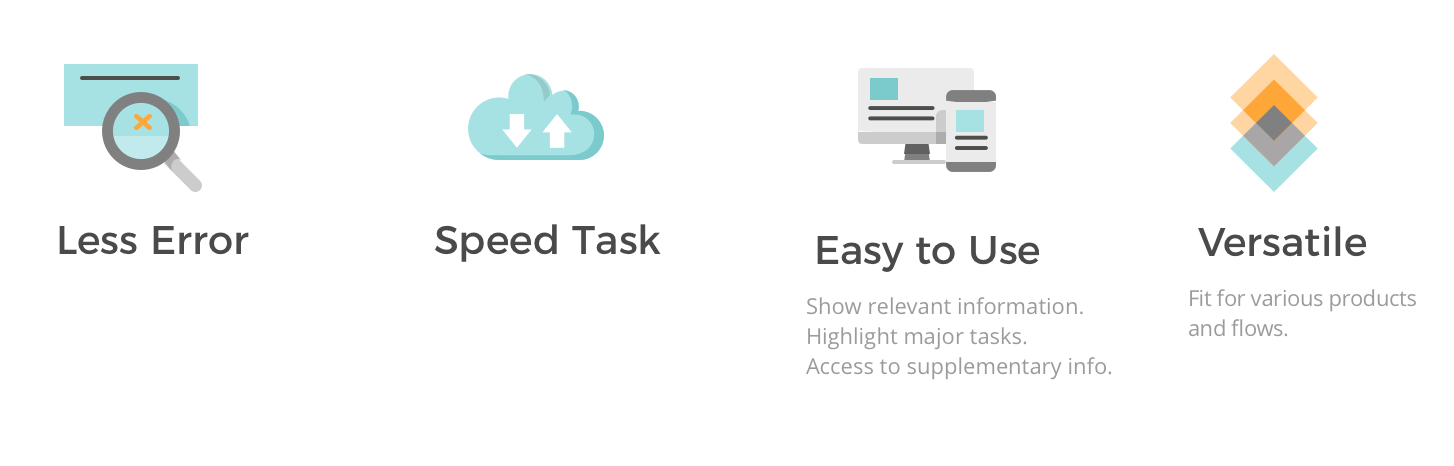
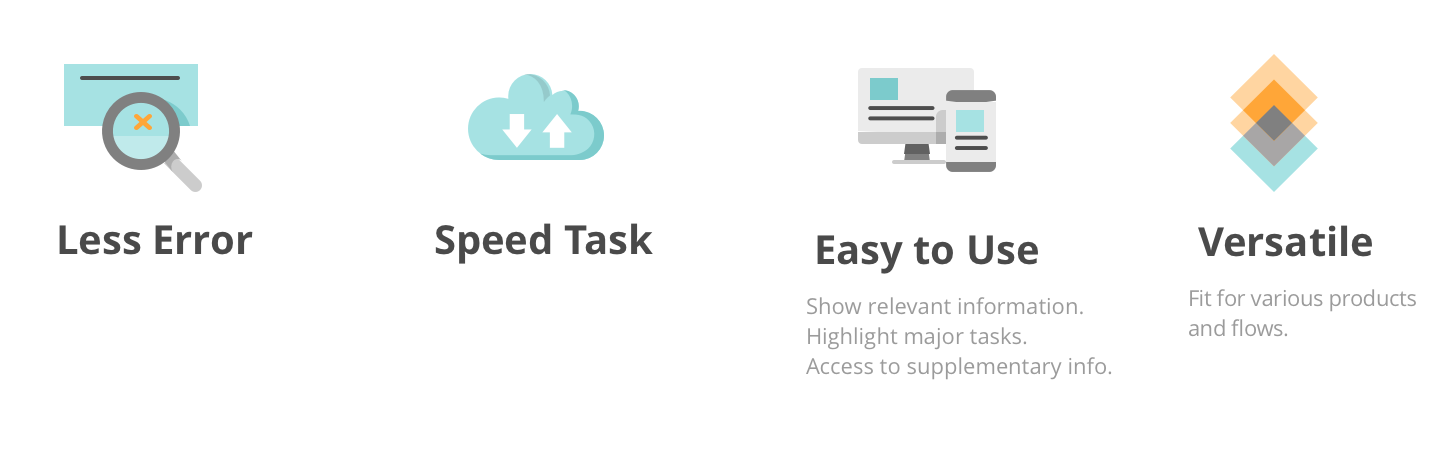
upload

diff --git a/chattie.html b/chattie.html
@@ -116,7 +116,7 @@
     <div class="blog-subheader-container w-container">
       <div class="blog-desc">Chattie is a voice-based companion for practicing conversations in new languages. Having real-world conversation is commonly recognized as very helpful and useful way in language learning. We designed voice interface on a smart speaker to be used
         in practicing conversation in a new language. It is like an always-available person to talk to, and it allows users to utilize small pieces of time to learn. <a href="https://www.uxmatters.com/mt/archives/2018/10/a-practical-guide-to-designing-conversational-voice-interfaces.php"
-          target="_blank">Check the article we published on UXmatters.</a><br>
+          target="_blank">Check the article we published on UXmatters.</a><br><br>
           <a href="pre/Chattie.pdf"
             target="_blank">Presentation</a><br></div>
     </div>
@@ -157,14 +157,10 @@
         <div class="caption">Click to see the document</div>
       </a></div>
     <div class="blog-content-normal mt-5">
-    </br>Based on above research, we found the focus of <strong>competitive analysis</strong> on: </div>
-    <div class="blog-content-sub">
-      <div class="blog-item mb-2"><strong class="seq">&bull;</strong> <a class="blog-content-highlight">Language learning tools</a>, equiped with oral practicing feature</div>
-      <div class="blog-item mb-2"><strong class="seq">&bull;</strong> <a class="blog-content-highlight">Learning strategies</a> that our interviewee mentioned that they use practice conversations</div>
-    </div>
-    <img class="mt-2 mb-4" src="img/chattie_competitive.png"></img>
+    </br>Based on above research, we found the focus of <strong>competitive analysis</strong> on two things. The first is <strong>Language learning tools</strong>, equiped with oral practicing feature. The second is <strong>Learning strategies</strong> that our interviewee mentioned that they use practice conversations </div>
+    <img class="mt-4 mb-2" src="img/chattie_competitive.png"></img>
 
-    <div class="blog-content-normal mt-5"><a class="blog-subtitle">Expressive phrases are learnt in using context</a>
+    <div class="blog-content-normal mt-5">We learnt that expressive phrases are learnt in using context:
     </div>
     <div class="blog-content-normal blog-content-quote chattie-color">“I remember them after I actually used them”
     </div>
@@ -173,16 +169,16 @@
     <div class="blog-content-normal">To help user improve speaking, it is important to not only let them practice, but also provide resources for them to enrich their expressions in scenarios.</div>
 
     <!-- <h2 class="mt-5">Why Smart Speaker?</h2> -->
-    <img class="" src="img/chattie_smartspeaker.png"></img>
+    <img class="mt-4" src="img/chattie_smartspeaker.png"></img>
 
     <div class="blog-content-normal mt-5"><a class="blog-subtitle chattie"><strong>Design Goals</strong></a></div>
-    <div class="blog-content-normal mb-0"><a class="seq chattie">1. </a>Practice conversations that are useful in real-life scenarios. </div>
-    <div class="blog-content-normal mb-0"><a class="seq chattie">2. </a>Expand vocabulary and phrases in oral language. </div>
+    <div class="blog-content-normal mb-0"><a class="seq">1. </a>Practice conversations that are useful in real-life scenarios. </div>
+    <div class="blog-content-normal mb-0"><a class="seq">2. </a>Expand vocabulary and phrases in oral language. </div>
     <div class="blog-content-normal mt-5"><a class="blog-subtitle chattie"><strong>Design Constraints</strong></a></div>
-    <div class="blog-content-normal"><a class="seq chattie">1. </a>People expect smart speakers are more intelligent than they are. </div>
-    <div class="blog-content-normal mb-0"><a class="seq chattie">2. </a>Recollection is a pain in language learning. </div>
+    <div class="blog-content-normal"><a class="seq">1. </a>People expect smart speakers are more intelligent than they are. </div>
+    <div class="blog-content-normal mb-0"><a class="seq">2. </a>Recollection is a pain in language learning. </div>
     <!-- </div> -->
-    <div class="blog-content-normal ml-2">With the research results, we created a user persona, which is easy to remember and able to guide us through the design process.</div>
+    <div class="blog-content-normal ml-2 mt-5">With the research results, we created a user persona, which is easy to remember and able to guide us through the design process.</div>
     <img class="my-2" src="img/chattie_persona.png"></img>
   </div>
 
@@ -195,11 +191,11 @@
     <!-- <h1 class="blog-section-subheader">Poster</h1> -->
     <h1 class="blog-section-subheader">Design</h1>
     <h2>A Peek at Chattie</h2>
-    <div class="blog-content-normal mt-5"><a class="blog-subtitle"><strong>Features</strong></a></div>
+    <div class="blog-content-normal mt-5"><a class="blog-subtitle chattie"><strong>Features align with design goals and contraints</strong></a></div>
     <img class="mt-5" src="img/chattie/features.png"></img>
-    <div class="blog-content-normal mt-5"><a class="blog-subtitle"><strong>Flow Maps</strong></a></div>
+    <div class="blog-content-normal mt-5"><a class="blog-subtitle chattie"><strong>Flow Maps</strong></a></div>
     <img class="mt-1" src="img/chattie_flow.png"></img>
-    <div class="blog-content-normal mt-5"><a class="blog-subtitle"><strong>Dialog Script</strong></a></div>
+    <div class="blog-content-normal mt-5"><a class="blog-subtitle chattie"><strong>Dialog Script</strong></a></div>
     <img class="mt-1" src="img/chattie/script.png"></img>
 
     <!--
@@ -223,43 +219,43 @@
       <img class="my-2" src="img/chattie_speed.png"></img>
     </div> -->
 
-    <h2 class="mt-5">How to practice conversation?</h2>
-    <div class="blog-content-normal mb-0"><a class="seq chattie">&#8226;</a><a class="blog-subtitle">Scenario-based topics</a></div>
+    <h2 class="mt-5"><br>How to practice conversation?</h2>
+    <div class="blog-content-normal mb-0 mt-4"><a class="seq chattie">&#8226;</a><a class="blog-subtitle">Scenario-based topics</a></div>
     <div class="blog-content-normal blog-content-quote chattie-color mt-1 ml-3">“I am most motivated to learn phrases that are often used in real life, the useful language”
     </div>
-    <div class="blog-content-normal mb-0"><a class="seq chattie">&#8226;</a><a class="blog-subtitle">Ask proper questions to solicit practicing</a></div>
+    <div class="blog-content-normal mb-0 mt-4"><a class="seq chattie">&#8226;</a><a class="blog-subtitle">Ask proper questions to solicit practicing</a></div>
     <div class="blog-content-normal mt-1">To come up with captivating conversation, we had many rounds of speed tests with people. We iterate our design to encourage users speak more, continue the conversation in a natural flow.</div>
     <img class="my-2 px-4" src="img/chattie_speed.png"></img>
 
 
-    <h2 class="mt-5">How to introduce the features in a conversation flow?</h2>
+    <h2 class="mt-5"><br>How to introduce the features in a conversation flow?</h2>
     <div class="blog-content-normal mb-1"><strong>Problem: </strong>Unlike GUI, voice App doesn’t have navigation bar or breadcrumb to show where the user is at. It is easy to get lost.
     </div>
-    <div class="blog-content-normal mb-0"><a class="seq chattie">&#8226;</a><a class="blog-subtitle">Reveal features on the go</a></div>
-    <div class="blog-content-normal mb-0"><a class="seq chattie">&#8226;</a><a class="blog-subtitle">Prompt navigation options, no more than three</a></div>
+    <div class="blog-content-normal mb-0 mt-4"><a class="seq chattie">&#8226;</a><a class="blog-subtitle">Reveal features on the go</a></div>
+    <div class="blog-content-normal mb-0 mt-4"><a class="seq chattie">&#8226;</a><a class="blog-subtitle">Prompt navigation options, no more than three</a></div>
     <img class="my-2 px-4" src="img/chattie/three_options.png"></img>
-    <div class="blog-content-normal mb-0"><a class="seq chattie">&#8226;</a><a class="blog-subtitle">Ask "What do you think of the App structure?" in user test</a></div>
+    <div class="blog-content-normal mb-0 mt-4"><a class="seq chattie">&#8226;</a><a class="blog-subtitle">Ask "What do you think of the App structure?" in user test</a></div>
 
 
-    <h2 class="mt-5">How to build Chattie’s personality?</h2>
+    <h2 class="mt-5"><br>How to build Chattie’s personality?</h2>
     <div class="blog-content-normal mb-1"><strong>Problem: </strong>It is reported that people usually talk to Alexa as if commanding a real assistant. However, a trusting encouraging friend is much more effective for learning purpose.
     </div>
-    <div class="blog-content-normal mb-0"><a class="seq chattie">&#8226;</a><a class="blog-subtitle">Interactivity: Ad-libs</a></div>
+    <div class="blog-content-normal mb-0 mt-4"><a class="seq chattie">&#8226;</a><a class="blog-subtitle">Interactivity: Ad-libs</a></div>
     <div class="blog-content-normal mt-1">After getting user feedback of “robot feeling”, we did more exploration, found ad-lib is a good way to signal “Got you”, and create a welcoming conversation. </div>
     <img class="my-2 px-4" src="img/chattie/ad-lib.png"></img>
-    <div class="blog-content-normal mb-0"><a class="seq chattie">&#8226;</a><a class="blog-subtitle">Learning feedback based on user response</a></div>
+    <div class="blog-content-normal mb-0 mt-4"><a class="seq chattie">&#8226;</a><a class="blog-subtitle">Learning feedback based on user response</a></div>
     <img class="my-2 px-4" src="img/chattie/feedback.png"></img>
-    <div class="blog-content-normal mb-0"><a class="seq chattie">&#8226;</a><a class="blog-subtitle">Being helpful when user stumbles</a></div>
+    <div class="blog-content-normal mb-0 mt-4"><a class="seq chattie">&#8226;</a><a class="blog-subtitle">Being helpful when user stumbles</a></div>
     <div class="blog-content-normal mt-1">In user test with language learners, we found user stumbles often. They either don’t understand Chattie’s prompt, or do not have a clue of what to answer.</div>
     <div class="blog-content-normal mt-1">We design Chattie to allow a <strong>reasonable pause</strong> before the user replies, then <strong>offer explanation</strong> of the last sentence. If it still fails, Chattie would suggest to do something else, such as listening to a sample answer.</div>
 
 
-    <h2 class="mt-5">How to handle unexpected user response?</h2>
+    <h2 class="mt-5"><br>How to handle unexpected user response?</h2>
     <div class="blog-content-normal mb-1">It is not possible to exhaust all kinds of edge cases. We designed some fallbacks for exceptions with information learnt from books and tests. And we are looking forward to more data to improve.
     </div>
-    <div class="blog-content-normal mb-0"><a class="seq chattie">&#8226;</a><a class="blog-subtitle">Provide alternative information</a></div>
+    <div class="blog-content-normal mb-0 mt-4"><a class="seq chattie">&#8226;</a><a class="blog-subtitle">Provide alternative information</a></div>
     <img class="my-2 px-4" src="img/chattie/alternative.png"></img>
-    <div class="blog-content-normal mb-0"><a class="seq chattie">&#8226;</a><a class="blog-subtitle">Guess ambiguous pronunciation, and explain</a></div>
+    <div class="blog-content-normal mb-0 mt-4"><a class="seq chattie">&#8226;</a><a class="blog-subtitle">Guess ambiguous pronunciation, and explain</a></div>
     <img class="my-2 px-4" src="img/chattie/explain.png"></img>
 
   </div>

diff --git a/return.html b/return.html
@@ -132,7 +132,7 @@
 
   <div id="process" class="blog-content-container w-container">
     <h1>Design Process</h1>
-    <img class="my-5" src="img/return_process.png"></img>
+    <img class="my-5" src="img/return/design_process.png"></img>
   </div>
 
   <div id="workflow" class="blog-content-container w-container">
@@ -143,23 +143,23 @@
 
   <div id="pains" class="blog-content-container w-container pr-1">
     <h2 class="mb-5">User activities in the system & physical space</h1>
-    <div class="blog-content w-clearfix">
+    <!-- <div class="blog-content w-clearfix"> -->
       <div class="blog-content-normal"><a class="blog-subtitle">1. Reference number can be in different systems. </a>
         <img class="mt-5" src="img/return_pains_system.png"></img>
       </div>
-    </div>
+    <!-- </div> -->
 
-    <div class="blog-content w-clearfix">
-      <div class="blog-content-normal"><a class="blog-subtitle">2. Inspection process is experience-dependent.</a>
+    <!-- <div class="blog-content w-clearfix"> -->
+      <div class="blog-content-normal mt-5"><a class="blog-subtitle">2. Inspection process is experience-dependent.</a>
         <img class="mt-4" src="img/return_pains_experience.png"></img>
       </div>
-    </div>
+    <!-- </div> -->
 
-    <div class="blog-content w-clearfix">
-      <div class="blog-content-normal"><a class="blog-subtitle">3. Put-away strategy is separated from return operations.</a>
+    <!-- <div class="blog-content w-clearfix"> -->
+      <div class="blog-content-normal mt-5"><a class="blog-subtitle">3. Put-away strategy is separated from return operations.</a>
         <img class="mt-4" src="img/return_pains_putaway.png"></img>
       </div>
-    </div>
+    <!-- </div> -->
   </div>
 
 
@@ -171,19 +171,31 @@
       <img class="mt-1" src="img/return/process.png"></img>
       <div class="blog-content-normal mt-2 mb-2"><a class="blog-subtitle"><strong>New Process</strong></a></div>
       <img class="mt-1" src="img/return/new_process.png"></img>
-  </div>
 
-  <img class="return-screen mt-1" src="img/return/return_screen_1.png"></img>
-  <img class="mt-5 return-screen" src="img/return/return_screen_2.png"></img>
-  <img class="mt-5 return-screen" src="img/return/return_screen_3.png"></img>
+  <div class="blog-content-normal"><a class="blog-subtitle"><strong>1. One unified reference number input.</strong></a>
+  </div>
+  </div>
+  <img class="return-screen" src="img/return/return_screen_1.png"></img>
+
+  <div class="blog-content-container w-container pr-1 mb-0">
+  <div class="blog-content-normal"><a class="blog-subtitle"><strong>2. Once found a return order, the system shows all products in the order.</strong></a>
+  </div>
+  </div>
+  <img class="return-screen" src="img/return/return_screen_2.png"></img>
+
+  <div class="blog-content-container w-container pr-1 mb-0">
+  <div class="blog-content-normal"><a class="blog-subtitle"><strong>3. Product inpection with alternative interaction via scanner input.</strong></a>
+  </div>
+  </div>
+  <img class="return-screen" src="img/return/return_screen_3.png"></img>
 
   <div id="reflection" class="blog-content-container w-container">
     <h1 class="blog-section-subheader">Reflection</h1>
     <h2>Look back the challenges</h2>
-    <div class="blog-content-normal mb-0"><a class="seq">1.</a><a class="blog-subtitle">Handle edge cases</a></div>
+    <div class="blog-content-normal mb-0"><a class="blog-subtitle">1. Handle edge cases</a></div>
     <div class="blog-content-normal mb-1">One biggest challenge faced in this project is to handle a large variety of use cases in different warehouses. It is often straightforward to design for one case. When it comes to multiple workflows, designers have to consider integration and prioritization - focus on the main workflow, get ready advanced features but only reveal when needed.  Meanwhile, edge case is also costive for development effort. It is challenging but fun to think of cheap solutions with the least sacrifice on usability.
     </div>
-    <div class="blog-content-normal mb-0"><a class="seq">2.</a><a class="blog-subtitle">Apply guideline</a></div>
+    <div class="blog-content-normal mb-0"><a class="blog-subtitle">2. Apply guideline</a></div>
     <div class="blog-content-normal mb-1">Company guideline is usually well designed to be versatile for most workflow.s This project, as one interface of enterprise software, is special because it is strict requirement of operation speed and context-based interactions. It involves user’s interaction with the physical space, such as inspection and placing product. When there is not a clear choice of floor plan, we focused on the screen navigation flow, and proposed component design changes to ensure operation efficiency.
     </div>
   </div>

diff --git a/eatjoy.html b/eatjoy.html
@@ -44,7 +44,16 @@
         <a class="nav-link" href="#persona"><span class="dot-text">Persona</span></a>
       </li>
       <li class="nav-item">
-        <a class="nav-link" href="#design"><span class="dot-text">Design Process</span></a>
+        <a class="nav-link" href="#goals"><span class="dot-text">Design Goals</span></a>
+      </li>
+      <li class="nav-item">
+        <a class="nav-link" href="#journey"><span class="dot-text">User Journey</span></a>
+      </li>
+      <li class="nav-item">
+        <a class="nav-link" href="#iterations"><span class="dot-text">Iterations</span></a>
+      </li>
+      <li class="nav-item">
+        <a class="nav-link" href="#design"><span class="dot-text">Design</span></a>
       </li>
       <li class="nav-item">
         <a class="nav-link" href="#system"><span class="dot-text">Design system</span></a>
@@ -90,7 +99,7 @@
       </br>
       </br>
       <div class="blog-desc">EatJoy is a mobile application to address the problem of emotional eating. The App is designed with theoretical support by Behavior Changing Techniques and health research findings. The final high-fidelity prototype is pixel-perfect in material
-        design style.<br>
+        design style.<br><br>
         <a href="pre/Eatjoy.pdf"
           target="_blank">Presentation</a><br></div>
     </div>
@@ -121,12 +130,10 @@
     <img class="my-5" src="img/eatjoy_insights.png"></img>
   </div>
 
-  <div id="design" class="blog-content-container w-container">
-    <!-- <h1 class="blog-section-subheader">Poster</h1> -->
-    <h1 class="blog-section-subheader">Design</h1>
-    <h2>How might we help university students use food to defeat negative feeling in a healthy way?</h2>
+  <div id="goals" class="blog-content-container w-container">
+    <h2><div class="blog-content-normal mt-5"><a class="blog-subtitle eatjoy"><strong>How might we _______</strong></a></div>help university students use food to defeat negative feeling in a healthy way?<br><br></h2>
     <!-- <div class="blog-content w-clearfix"> -->
-    <div class="blog-content-normal"><a class="blog-subtitle eatjoy"><strong>Design Goals</strong></a></div>
+    <div class="blog-content-normal mt-5"><a class="blog-subtitle eatjoy"><strong>Design Goals</strong></a></div>
     <div class="row mt-5">
       <div class="col mx-0">
         <img class="blog-center icon-img" src="img/eatjoy/icon_happy.png"></img>
@@ -145,9 +152,9 @@
     <div class="blog-content-normal"><a class="seq eatjoy">1. </a>Intervention needs to be personalized for different <strong>food preferences</strong>. </div>
     <div class="blog-content-normal mb-0"><a class="seq eatjoy">2. </a><strong>Physical availability</strong> of good food has to be considered. </div>
     <div class="blog-content-normal mb-0"><a class="seq eatjoy">3. </a>Food craving is <strong>impulsive and urgent</strong>, allows a short period of time for intervention. </div>
-    <!-- </div> -->
-
-    <h1 class="blog-section-subheader mt-5"></br>User Journey</h1>
+    </div>
+    <div id="journey" class="blog-content-container w-container">
+    <h1 class="blog-section-subheader"></br>User Journey</h1>
     <h2>Design a experience led by how the user feels</h2>
     <img class="my-5" src="img/eatjoy/process.png"></img>
 
@@ -171,6 +178,8 @@
         </div>
       </div>
     </div>
+  </div>
+  <div id="iterations" class="blog-content-container w-container">
 
     <h1 class="blog-section-subheader mt-5"></br>Iteration</h1>
     <h2>Visual Presentation of The Recommendations</h2>
@@ -195,6 +204,8 @@
         </div>
       </div>
     </div>
+  </div>
+  <div id="design" class="blog-content-container w-container">
 
     <h2 class="mt-5 pt-5">A mascot guides through <a class="eatjoy">onboarding</a></h2>
     <div class="blog-content-normal">Drawn from user's <strong>social needs</strong>, we design a mascot to assist onboarding and be a companion through the whole experience.</div>

diff --git a/index.html b/index.html
@@ -75,19 +75,6 @@
 	<div class="container-fluid p-0">
 		<section id="ux">
 			<div class="project-block">
-				<a href="duudo.html">
-					<div id="scene_duudo" class="scene" data-hover-only="true" data-relative-input="true">
-						<div data-depth="0.00"><img src="img/cover/duudo_mask.png"></div>
-						<div data-depth="0.10" class="circle_img"><img src="img/cover/duudo_circles.png"></div>
-						<div data-depth="0.30"><img src="img/cover/duudo_graph.png"></div>
-						<div data-depth="0.00"><img src="img/cover/duudo_text.png"></div>
-					</div>
-					<div class="project-title">Duudo: AR App for Social and Doodle</div>
-					<div class="project-subtitle">A Social AR App for Doodlers to Draw on Real-world Objects</div>
-				</a>
-			</div>
-
-			<div class="project-block">
 				<a href="eatjoy.html">
 					<div id="scene_eatjoy" class="scene" data-hover-only="true" data-relative-input="true">
 						<div data-depth="0.00"><img src="img/cover/eatjoy_mask.png"></div>
@@ -97,6 +84,19 @@
 					</div>
 					<div class="project-title">EatJoy: Mobile App to Raise Consciousness in Emotional Eating</div>
 					<div class="project-subtitle">Incoperate Health Behavior Intervention Techniques in App Design</div>
+				</a>
+			</div>
+			
+			<div class="project-block">
+				<a href="duudo.html">
+					<div id="scene_duudo" class="scene" data-hover-only="true" data-relative-input="true">
+						<div data-depth="0.00"><img src="img/cover/duudo_mask.png"></div>
+						<div data-depth="0.10" class="circle_img"><img src="img/cover/duudo_circles.png"></div>
+						<div data-depth="0.30"><img src="img/cover/duudo_graph.png"></div>
+						<div data-depth="0.00"><img src="img/cover/duudo_text.png"></div>
+					</div>
+					<div class="project-title">Duudo: AR App for Social and Doodle</div>
+					<div class="project-subtitle">A Social AR App for Doodlers to Draw on Real-world Objects</div>
 				</a>
 			</div>
 

diff --git a/duudo.html b/duudo.html
@@ -171,7 +171,7 @@
     <!-- <h1 class="blog-section-subheader">Poster</h1> -->
     <h1 class="blog-section-subheader">Cultural Probe</h1>
     <h2>Understand interactions in "doodle"</h2>
-    <div class="blog-content w-clearfix">
+
       <div class="blog-content-normal">We put blank papers and pens at 5 places, including outdoor and indoor buildings. Initial drawings were added to call for passengers to create content.</div>
       <div class="row my-5">
         <div class="col mx-0">
@@ -182,7 +182,7 @@
         </div>
       </div>
       <div class="blog-content-normal">After 3 days, we took back the papers and analyzed people's doodle behavior and patterns, concluded insights for design.</div>
-    </div>
+
     <img class="blog-center mt-5" src="img/duudo/poster_together.png"></img>
     <div class="blog-content-normal mt-5"><a class="blog-subtitle duudo"><strong>Research Insights</strong></a></div>
     <div class="row mt-4">

diff --git a/css/blog.css b/css/blog.css
@@ -70,13 +70,12 @@ h1{
 }
 
 .blog-header-chattie {
-  background-image: url('../img/Chattie.png');
-  background-position: calc(50% - 320px) 295px;
-  background-size: 80px auto;
-  /* transform: translate(10px, 10px); */
-  /* background-color: #FFC972; */
+
+  background-position: 50% 365px;
+  background-size: 600px auto;
+  background-image: url('../img/chattie_hero.png');
+  /* background-color: #74CFB3; */
   background-repeat: no-repeat;
-  background-attachment: fixed;
 }
 
 .blog-center {

diff --git a/css/liangpuhe.webflow.css b/css/liangpuhe.webflow.css
@@ -1006,8 +1006,10 @@ blockquote {
 
 .scope-header {
   margin-top: 44px;
-  font-family: Montserrat, sans-serif;
+  font-family: 'Open Sans', sans-serif;
   font-size: 20px;
+  font-weight: 600;
+  color: #545454;
 }
 
 .blog-subheader {
@@ -1089,7 +1091,7 @@ blockquote {
 }
 
 .blog-content-container {
-  margin-top: 4rem;
+  margin-top: 6rem;
   padding-right: 60px;
   padding-left: 60px;
   /* line-height: 20; */
